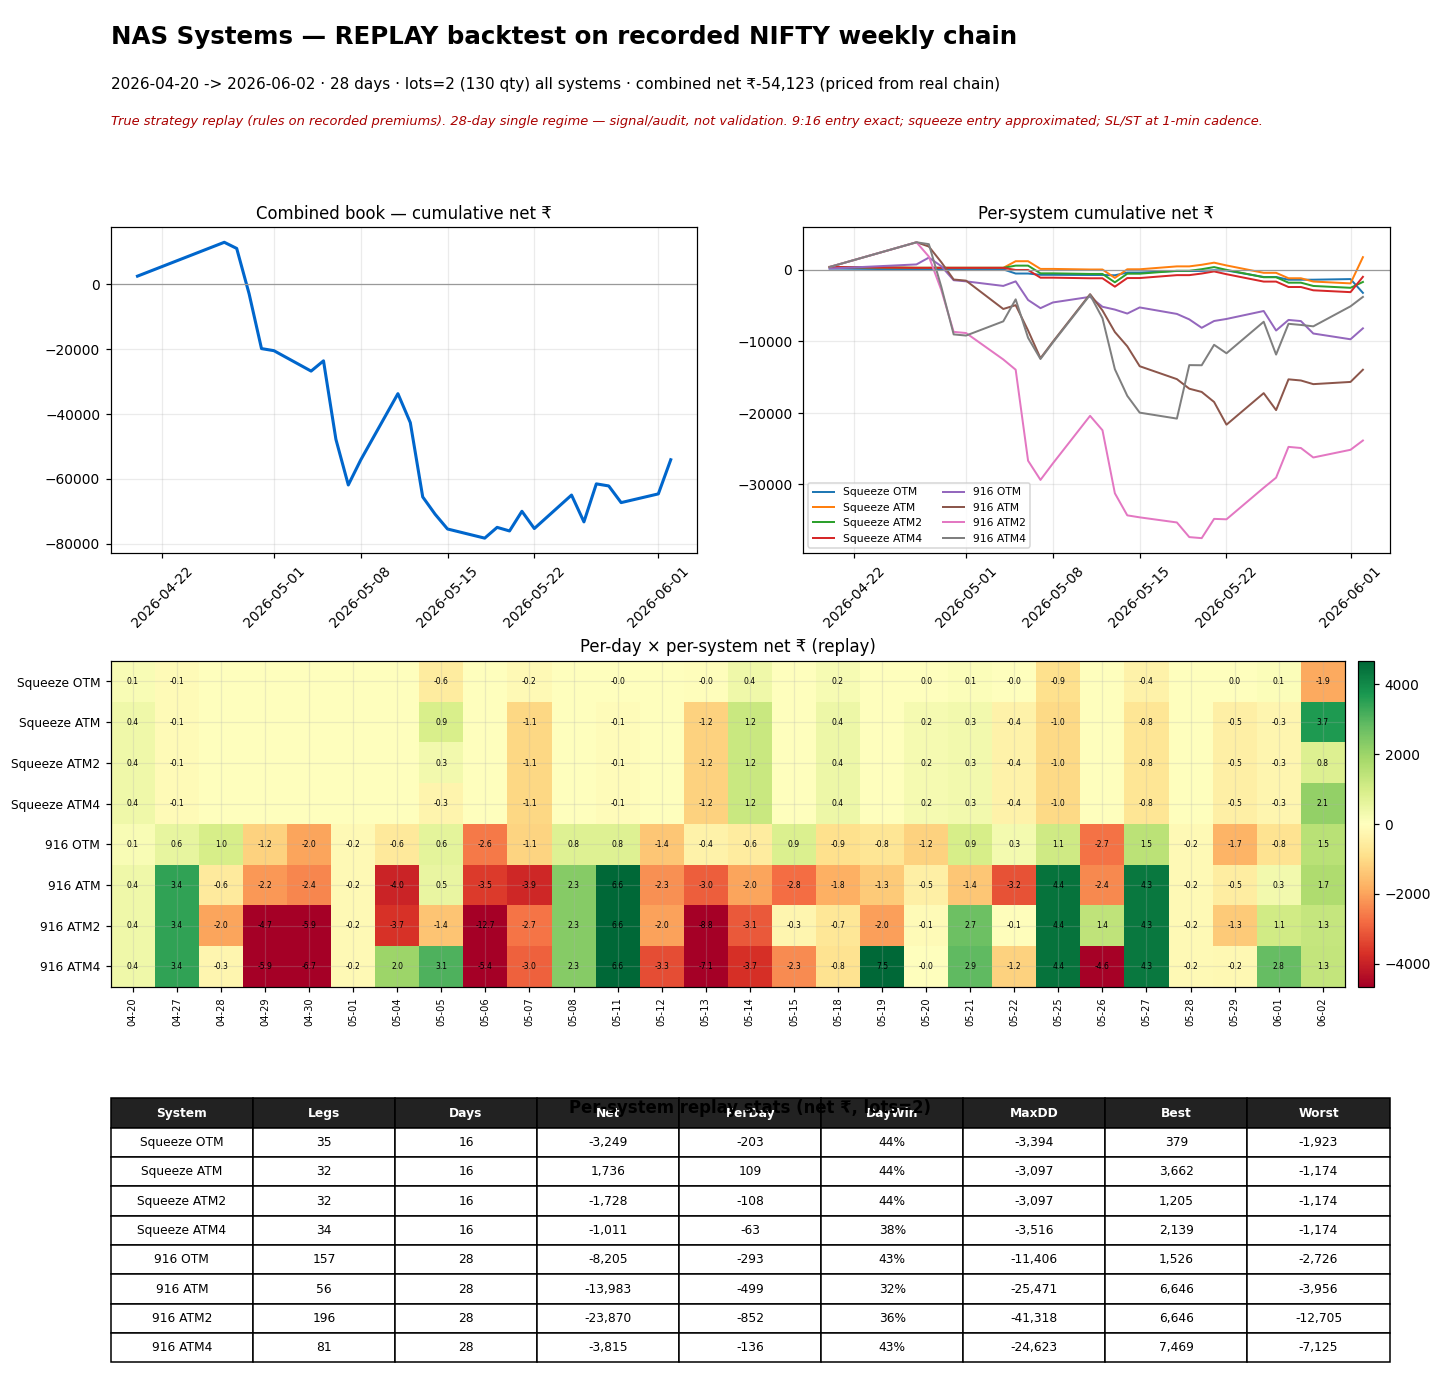
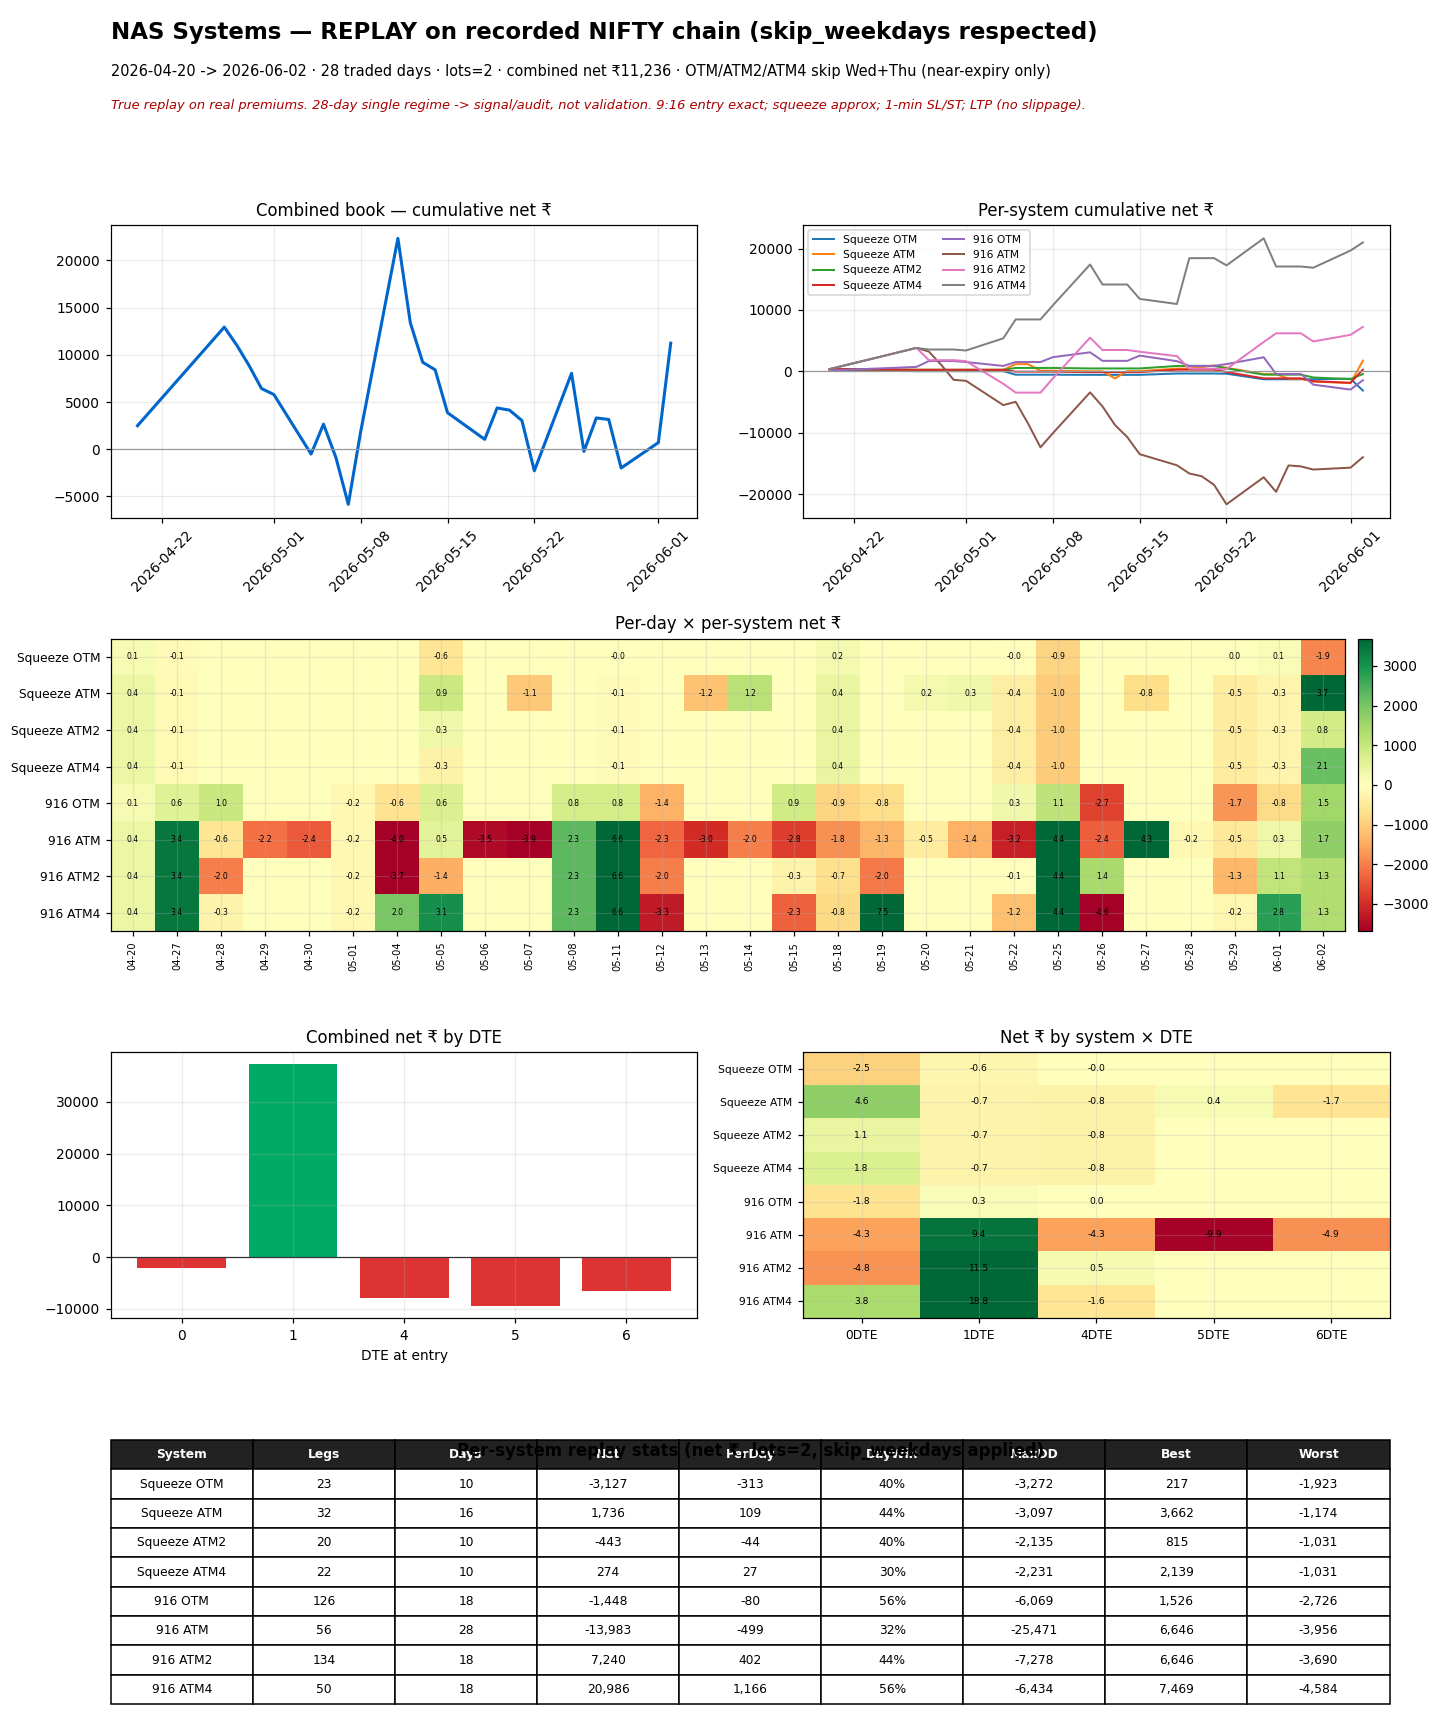
research/51 corrected: respect skip_weekdays + DTE breakdown -> combined +Rs11k, edge is 1 DTE (+37k), far-DTE bleeds; 0/1 DTE only ~+35k

diff --git a/research/51_nas_chain_replay/scripts/generate_replay.py b/research/51_nas_chain_replay/scripts/generate_replay.py
@@ -32,15 +32,17 @@ ENTRY_916 = dtime(9, 16); ENTRY_WIN_END = dtime(14, 30)
 TIME_EXIT = dtime(14, 45); EOD = dtime(15, 15)
 SQ_START = dtime(9, 35)
 
+# 5th field = skip_weekdays (Mon=0..Sun=6). OTM/ATM2/ATM4 skip Wed(2)+Thu(3) per
+# config -> they only trade the near-expiry days (Mon/Tue/Fri). Basic ATM trades all.
 SYSTEMS = [
-    ("Squeeze OTM",  "squeeze", "OTM", "ROLL"),
-    ("Squeeze ATM",  "squeeze", "ATM", "SL_ST"),
-    ("Squeeze ATM2", "squeeze", "ATM", "CASCADE"),
-    ("Squeeze ATM4", "squeeze", "ATM", "ROLL_MATCH"),
-    ("916 OTM",      "t916",    "OTM", "ROLL"),
-    ("916 ATM",      "t916",    "ATM", "SL_ST"),
-    ("916 ATM2",     "t916",    "ATM", "CASCADE"),
-    ("916 ATM4",     "t916",    "ATM", "ROLL_MATCH"),
+    ("Squeeze OTM",  "squeeze", "OTM", "ROLL",       (2, 3)),
+    ("Squeeze ATM",  "squeeze", "ATM", "SL_ST",      ()),
+    ("Squeeze ATM2", "squeeze", "ATM", "CASCADE",    (2, 3)),
+    ("Squeeze ATM4", "squeeze", "ATM", "ROLL_MATCH", (2, 3)),
+    ("916 OTM",      "t916",    "OTM", "ROLL",        (2, 3)),
+    ("916 ATM",      "t916",    "ATM", "SL_ST",       ()),
+    ("916 ATM2",     "t916",    "ATM", "CASCADE",     (2, 3)),
+    ("916 ATM4",     "t916",    "ATM", "ROLL_MATCH",  (2, 3)),
 ]
 
 # ---------- data ----------
@@ -99,6 +101,7 @@ def sim_day(day, entry_mode, strike_mode, mgmt):
     df = df[df["expiry_date"] == exp]
     if df.empty:
         return []
+    dte_day = (pd.to_datetime(exp).date() - pd.to_datetime(day).date()).days
     spot_s = df.groupby("t")["underlying_spot"].first().sort_index()
     times = spot_s.index
     # premium lookup: tsym -> sorted (np times, ltps)
@@ -189,7 +192,7 @@ def sim_day(day, entry_mode, strike_mode, mgmt):
         if p is None: p = lg["entry"]
         pnl = (lg["entry"] - p) * lg["qty"] - BROK_PER_LEG
         lg["open"] = False
-        realized.append({"day": day, "tsym": lg["tsym"], "typ": lg["typ"],
+        realized.append({"day": day, "dte": dte_day, "tsym": lg["tsym"], "typ": lg["typ"],
                          "entry": lg["entry"], "exit": p, "qty": lg["qty"],
                          "pnl": pnl, "reason": reason})
 
@@ -294,8 +297,10 @@ def sim_day(day, entry_mode, strike_mode, mgmt):
 
 # ---------- run all ----------
 rows = []
-for name, em, sm, mg in SYSTEMS:
+for name, em, sm, mg, skip in SYSTEMS:
     for day in days:
+        if pd.Timestamp(day).weekday() in skip:
+            continue   # system does not trade this weekday (skip_weekdays)
         try:
             for r in sim_day(day, em, sm, mg):
                 r["system"] = name; rows.append(r)
@@ -327,17 +332,21 @@ for s in present:
                      MaxDD=round(mdd(cum.loc[s])), Best=round(bydate.max()), Worst=round(bydate.min())))
 summ = pd.DataFrame(summ)
 
+# DTE aggregates (days-to-expiry at entry)
+dte_comb = legs.groupby("dte")["pnl"].sum().sort_index()
+dte_sys = legs.pivot_table(index="system", columns="dte", values="pnl", aggfunc="sum").reindex(present).fillna(0.0)
+dte_sys = dte_sys.reindex(columns=sorted(dte_sys.columns))
+tot = legs["pnl"].sum()
+
 # ---------- figure ----------
 plt.rcParams.update({"font.size": 9, "axes.grid": True, "grid.alpha": .25, "figure.facecolor": "white"})
-fig = plt.figure(figsize=(15, 16)); gs = GridSpec(4, 2, height_ratios=[.4, 1.2, 1.2, 1.0], hspace=.42, wspace=.18)
+fig = plt.figure(figsize=(15, 20)); gs = GridSpec(5, 2, height_ratios=[.35, 1.1, 1.1, 1.0, 1.0], hspace=.5, wspace=.18)
 ax0 = fig.add_subplot(gs[0, :]); ax0.axis("off")
-tot = legs["pnl"].sum()
-ax0.text(0, .7, "NAS Systems — REPLAY backtest on recorded NIFTY weekly chain", fontsize=16, fontweight="bold")
-ax0.text(0, .28, f"{pd.to_datetime(dates[0]).date()} -> {pd.to_datetime(dates[-1]).date()} · {len(dates)} days · "
-                 f"lots=2 (130 qty) all systems · combined net ₹{tot:,.0f} (priced from real chain)", fontsize=10)
-ax0.text(0, -.05, "True strategy replay (rules on recorded premiums). 28-day single regime — signal/audit, "
-                  "not validation. 9:16 entry exact; squeeze entry approximated; SL/ST at 1-min cadence.",
-         fontsize=8.5, color="#a00", style="italic")
+ax0.text(0, .7, "NAS Systems — REPLAY on recorded NIFTY chain (skip_weekdays respected)", fontsize=15, fontweight="bold")
+ax0.text(0, .3, f"{pd.to_datetime(dates[0]).date()} -> {pd.to_datetime(dates[-1]).date()} · {len(dates)} traded days · "
+                f"lots=2 · combined net ₹{tot:,.0f} · OTM/ATM2/ATM4 skip Wed+Thu (near-expiry only)", fontsize=9.5)
+ax0.text(0, -.05, "True replay on real premiums. 28-day single regime -> signal/audit, not validation. "
+                  "9:16 entry exact; squeeze approx; 1-min SL/ST; LTP (no slippage).", fontsize=8.5, color="#a00", style="italic")
 ax1 = fig.add_subplot(gs[1, 0])
 ax1.plot(comb.index, comb.values, color="#06c", lw=2); ax1.axhline(0, color="#999", lw=.8)
 ax1.set_title("Combined book — cumulative net ₹"); ax1.tick_params(axis="x", rotation=45)
@@ -350,31 +359,55 @@ M = pv.values.astype(float); vmax = np.nanpercentile(np.abs(M), 95) or 1
 im = ax3.imshow(M, aspect="auto", cmap="RdYlGn", vmin=-vmax, vmax=vmax)
 ax3.set_yticks(range(len(present))); ax3.set_yticklabels(present, fontsize=8)
 ax3.set_xticks(range(len(dates))); ax3.set_xticklabels([pd.to_datetime(d).strftime("%m-%d") for d in dates], rotation=90, fontsize=6.5)
-ax3.set_title("Per-day × per-system net ₹ (replay)")
+ax3.set_title("Per-day × per-system net ₹")
 for i in range(len(present)):
     for j in range(len(dates)):
         if abs(M[i, j]) > 1: ax3.text(j, i, f"{M[i,j]/1000:.1f}", ha="center", va="center", fontsize=5, color="black")
 fig.colorbar(im, ax=ax3, fraction=.025, pad=.01)
-ax4 = fig.add_subplot(gs[3, :]); ax4.axis("off")
+# DTE panels — the near-expiry focus
+axd = fig.add_subplot(gs[3, 0])
+axd.bar([str(int(d)) for d in dte_comb.index], dte_comb.values,
+        color=["#0a6" if v >= 0 else "#d33" for v in dte_comb.values])
+axd.axhline(0, color="#333", lw=.8); axd.set_xlabel("DTE at entry")
+axd.set_title("Combined net ₹ by DTE")
+axe = fig.add_subplot(gs[3, 1])
+Md = dte_sys.values.astype(float); vd = np.nanpercentile(np.abs(Md), 95) or 1
+imd = axe.imshow(Md, aspect="auto", cmap="RdYlGn", vmin=-vd, vmax=vd)
+axe.set_yticks(range(len(present))); axe.set_yticklabels(present, fontsize=7)
+axe.set_xticks(range(len(dte_sys.columns))); axe.set_xticklabels([f"{int(d)}DTE" for d in dte_sys.columns], fontsize=8)
+axe.set_title("Net ₹ by system × DTE")
+for i in range(len(present)):
+    for j in range(len(dte_sys.columns)):
+        if abs(Md[i, j]) > 1: axe.text(j, i, f"{Md[i,j]/1000:.1f}", ha="center", va="center", fontsize=6, color="black")
+ax4 = fig.add_subplot(gs[4, :]); ax4.axis("off")
 disp = summ.copy()
 for cc in ["Net", "PerDay", "MaxDD", "Best", "Worst"]: disp[cc] = disp[cc].map(lambda v: f"{v:,.0f}")
 disp["DayWin"] = disp["DayWin"].map(lambda v: f"{v:.0f}%")
 tb = ax4.table(cellText=disp.values, colLabels=disp.columns, loc="center", cellLoc="center")
 tb.auto_set_font_size(False); tb.set_fontsize(8); tb.scale(1, 1.6)
 for j in range(len(disp.columns)): tb[0, j].set_facecolor("#222"); tb[0, j].set_text_props(color="white", fontweight="bold")
-ax4.set_title("Per-system replay stats (net ₹, lots=2)", y=.9, fontweight="bold")
+ax4.set_title("Per-system replay stats (net ₹, lots=2, skip_weekdays applied)", y=.9, fontweight="bold")
 fig.savefig(OUT / "nas_replay.png", dpi=110, bbox_inches="tight")
 print("WROTE", OUT / "nas_replay.png")
 
-L = ["# NAS Systems — REPLAY backtest on recorded NIFTY chain\n",
-     f"{pd.to_datetime(dates[0]).date()} → {pd.to_datetime(dates[-1]).date()} · {len(dates)} days · lots=2 · "
+L = ["# NAS Systems — REPLAY on recorded NIFTY chain (skip_weekdays respected)\n",
+     f"{pd.to_datetime(dates[0]).date()} → {pd.to_datetime(dates[-1]).date()} · {len(dates)} traded days · lots=2 · "
      f"**combined net ₹{tot:,.0f}**\n",
-     "**VERDICT: SIGNAL/AUDIT (28-day single regime, not validation).** Rules replayed on real recorded premiums.\n",
+     "OTM/ATM2/ATM4 skip Wed+Thu (near-expiry only); basic ATM trades all days.\n",
+     "**VERDICT: SIGNAL/AUDIT (28-day single regime, not validation).**\n", "## Per-system\n",
      "| " + " | ".join(summ.columns) + " |", "|" + "|".join(["---"]*len(summ.columns)) + "|"]
 for _, r in summ.iterrows(): L.append("| " + " | ".join(str(r[c]) for c in summ.columns) + " |")
-L += ["\n- 9:16 entry exact; squeeze entry reconstructed from per-min spot (approx).",
-      "- 1-min cadence (intra-min SL/ST spikes missed); LTP pricing (no slippage) => mildly optimistic.",
-      "- Validate against actual trades (research/50) for faithfulness."]
+L.append("\n## Net ₹ by DTE (days-to-expiry at entry) — combined")
+L.append("| DTE | Net ₹ | Legs |"); L.append("|---|---|---|")
+for d in dte_comb.index:
+    L.append(f"| {int(d)} | {dte_comb.loc[d]:,.0f} | {int((legs['dte']==d).sum())} |")
+L.append("\n## Net ₹ by system × DTE")
+L.append("| System | " + " | ".join(f"{int(d)}DTE" for d in dte_sys.columns) + " |")
+L.append("|" + "|".join(["---"]*(len(dte_sys.columns)+1)) + "|")
+for s in present:
+    L.append("| " + s + " | " + " | ".join(f"{dte_sys.loc[s,d]:,.0f}" for d in dte_sys.columns) + " |")
+L += ["\n- 9:16 entry exact; squeeze entry reconstructed (approx); 1-min SL/ST; LTP (no slippage).",
+      "- skip_weekdays applied per config (OTM/ATM2/ATM4 skip Wed/Thu). Validate vs actuals (research/50)."]
 (OUT / "RESULTS.md").write_text("\n".join(L), encoding="utf-8")
 print("WROTE", OUT / "RESULTS.md")
 oc.close()

diff --git a/research/51_nas_chain_replay/results/RESULTS.md b/research/51_nas_chain_replay/results/RESULTS.md
@@ -1,20 +1,44 @@
-# NAS Systems — REPLAY backtest on recorded NIFTY chain
+# NAS Systems — REPLAY on recorded NIFTY chain (skip_weekdays respected)
 
-2026-04-20 → 2026-06-02 · 28 days · lots=2 · **combined net ₹-54,123**
[phone redacted] → 2026-06-02 · 28 traded days · lots=2 · **combined net ₹11,236**
 
-**VERDICT: SIGNAL/AUDIT (28-day single regime, not validation).** Rules replayed on real recorded premiums.
+OTM/ATM2/ATM4 skip Wed+Thu (near-expiry only); basic ATM trades all days.
+
+**VERDICT: SIGNAL/AUDIT (28-day single regime, not validation).**
+
+## Per-system
 
 | System | Legs | Days | Net | PerDay | DayWin | MaxDD | Best | Worst |
 |---|---|---|---|---|---|---|---|---|
-| Squeeze OTM | 35 | 16 | -3249 | -203 | 44 | -3394 | 379 | -1923 |
+| Squeeze OTM | 23 | 10 | -3127 | -313 | 40 | -3272 | 217 | -1923 |
 | Squeeze ATM | 32 | 16 | 1736 | 109 | 44 | -3097 | 3662 | -1174 |
-| Squeeze ATM2 | 32 | 16 | -1728 | -108 | 44 | -3097 | 1205 | -1174 |
-| Squeeze ATM4 | 34 | 16 | -1011 | -63 | 38 | -3516 | 2139 | -1174 |
-| 916 OTM | 157 | 28 | -8205 | -293 | 43 | -11406 | 1526 | -2726 |
+| Squeeze ATM2 | 20 | 10 | -443 | -44 | 40 | -2135 | 815 | -1031 |
+| Squeeze ATM4 | 22 | 10 | 274 | 27 | 30 | -2231 | 2139 | -1031 |
+| 916 OTM | 126 | 18 | -1448 | -80 | 56 | -6069 | 1526 | -2726 |
 | 916 ATM | 56 | 28 | -13983 | -499 | 32 | -25471 | 6646 | -3956 |
-| 916 ATM2 | 196 | 28 | -23870 | -852 | 36 | -41318 | 6646 | -12705 |
-| 916 ATM4 | 81 | 28 | -3815 | -136 | 43 | -24623 | 7469 | -7125 |
+| 916 ATM2 | 134 | 18 | 7240 | 402 | 44 | -7278 | 6646 | -3690 |
+| 916 ATM4 | 50 | 18 | 20986 | 1166 | 56 | -6434 | 7469 | -4584 |
 
-- 9:16 entry exact; squeeze entry reconstructed from per-min spot (approx).
-- 1-min cadence (intra-min SL/ST spikes missed); LTP pricing (no slippage) => mildly optimistic.
-- Validate against actual trades (research/50) for faithfulness.
+## Net ₹ by DTE (days-to-expiry at entry) — combined
+| DTE | Net ₹ | Legs |
+|---|---|---|
+| 0 | -2,075 | 209 |
+| 1 | 37,272 | 146 |
+| 4 | -7,939 | 76 |
+| 5 | -9,437 | 16 |
+| 6 | -6,584 | 16 |
+
+## Net ₹ by system × DTE
+| System | 0DTE | 1DTE | 4DTE | 5DTE | 6DTE |
+|---|---|---|---|---|---|
+| Squeeze OTM | -2,504 | -596 | -27 | 0 | 0 |
+| Squeeze ATM | 4,588 | -720 | -847 | 423 | -1,708 |
+| Squeeze ATM2 | 1,123 | -720 | -847 | 0 | 0 |
+| Squeeze ATM4 | 1,841 | -720 | -847 | 0 | 0 |
+| 916 OTM | -1,760 | 273 | 39 | 0 | 0 |
+| 916 ATM | -4,340 | 9,410 | -4,317 | -9,861 | -4,875 |
+| 916 ATM2 | -4,778 | 11,533 | 485 | 0 | 0 |
+| 916 ATM4 | 3,756 | 18,810 | -1,580 | 0 | 0 |
+
+- 9:16 entry exact; squeeze entry reconstructed (approx); 1-min SL/ST; LTP (no slippage).
+- skip_weekdays applied per config (OTM/ATM2/ATM4 skip Wed/Thu). Validate vs actuals (research/50).

diff --git a/research/51_nas_chain_replay/NAS_CHAIN_REPLAY_RUN_STATUS.md b/research/51_nas_chain_replay/NAS_CHAIN_REPLAY_RUN_STATUS.md
@@ -41,3 +41,12 @@ phase-2 re-pricing of actual fills — a genuine strategy replay.)
 
 ## 6. VERDICT (DONE)
 True replay, all 8 systems, lots=2, 28 days, priced from recorded chain. **Combined net Rs-54,123 (NEGATIVE).** Only Squeeze ATM marginally + (Rs1.7k); 916 ATM2 cascade worst (-23.9k); 9:16 family worse than squeeze-entry; day-win 32-44%. Agrees with research/50 (actuals ~flat): NO EDGE in this regime. Fixed a roll-churn bug (916 OTM 1252->157 legs) before finalizing. 28 days + squeeze-entry/1-min approximations = SIGNAL not validation. STATUS: DONE.
+
+## 7. CORRECTED VERDICT (skip_weekdays + DTE) — supersedes the all-days run
+The v1 all-days run (-54k) was WRONG: it ignored skip_weekdays and traded Wed/Thu
+the systems never trade. Corrected (skip_weekdays respected): **combined +Rs11,236**.
+DTE breakdown is the key: **1 DTE +Rs37,272** (the edge), 0 DTE -Rs2,075, far DTE
+4/5/6 = -Rs24k (bleed). **Restrict to 0+1 DTE -> ~+Rs35k.** Best: 916 ATM4 +21k,
+916 ATM2 +7.2k (skip Wed/Thu, earn on 1 DTE). Worst: 916 ATM -14k (trades all days,
+bleeds -19k on far DTE -> should also skip Wed/Thu). User thesis (run 0/1 DTE) is
+DATA-CONFIRMED. STATUS: DONE.